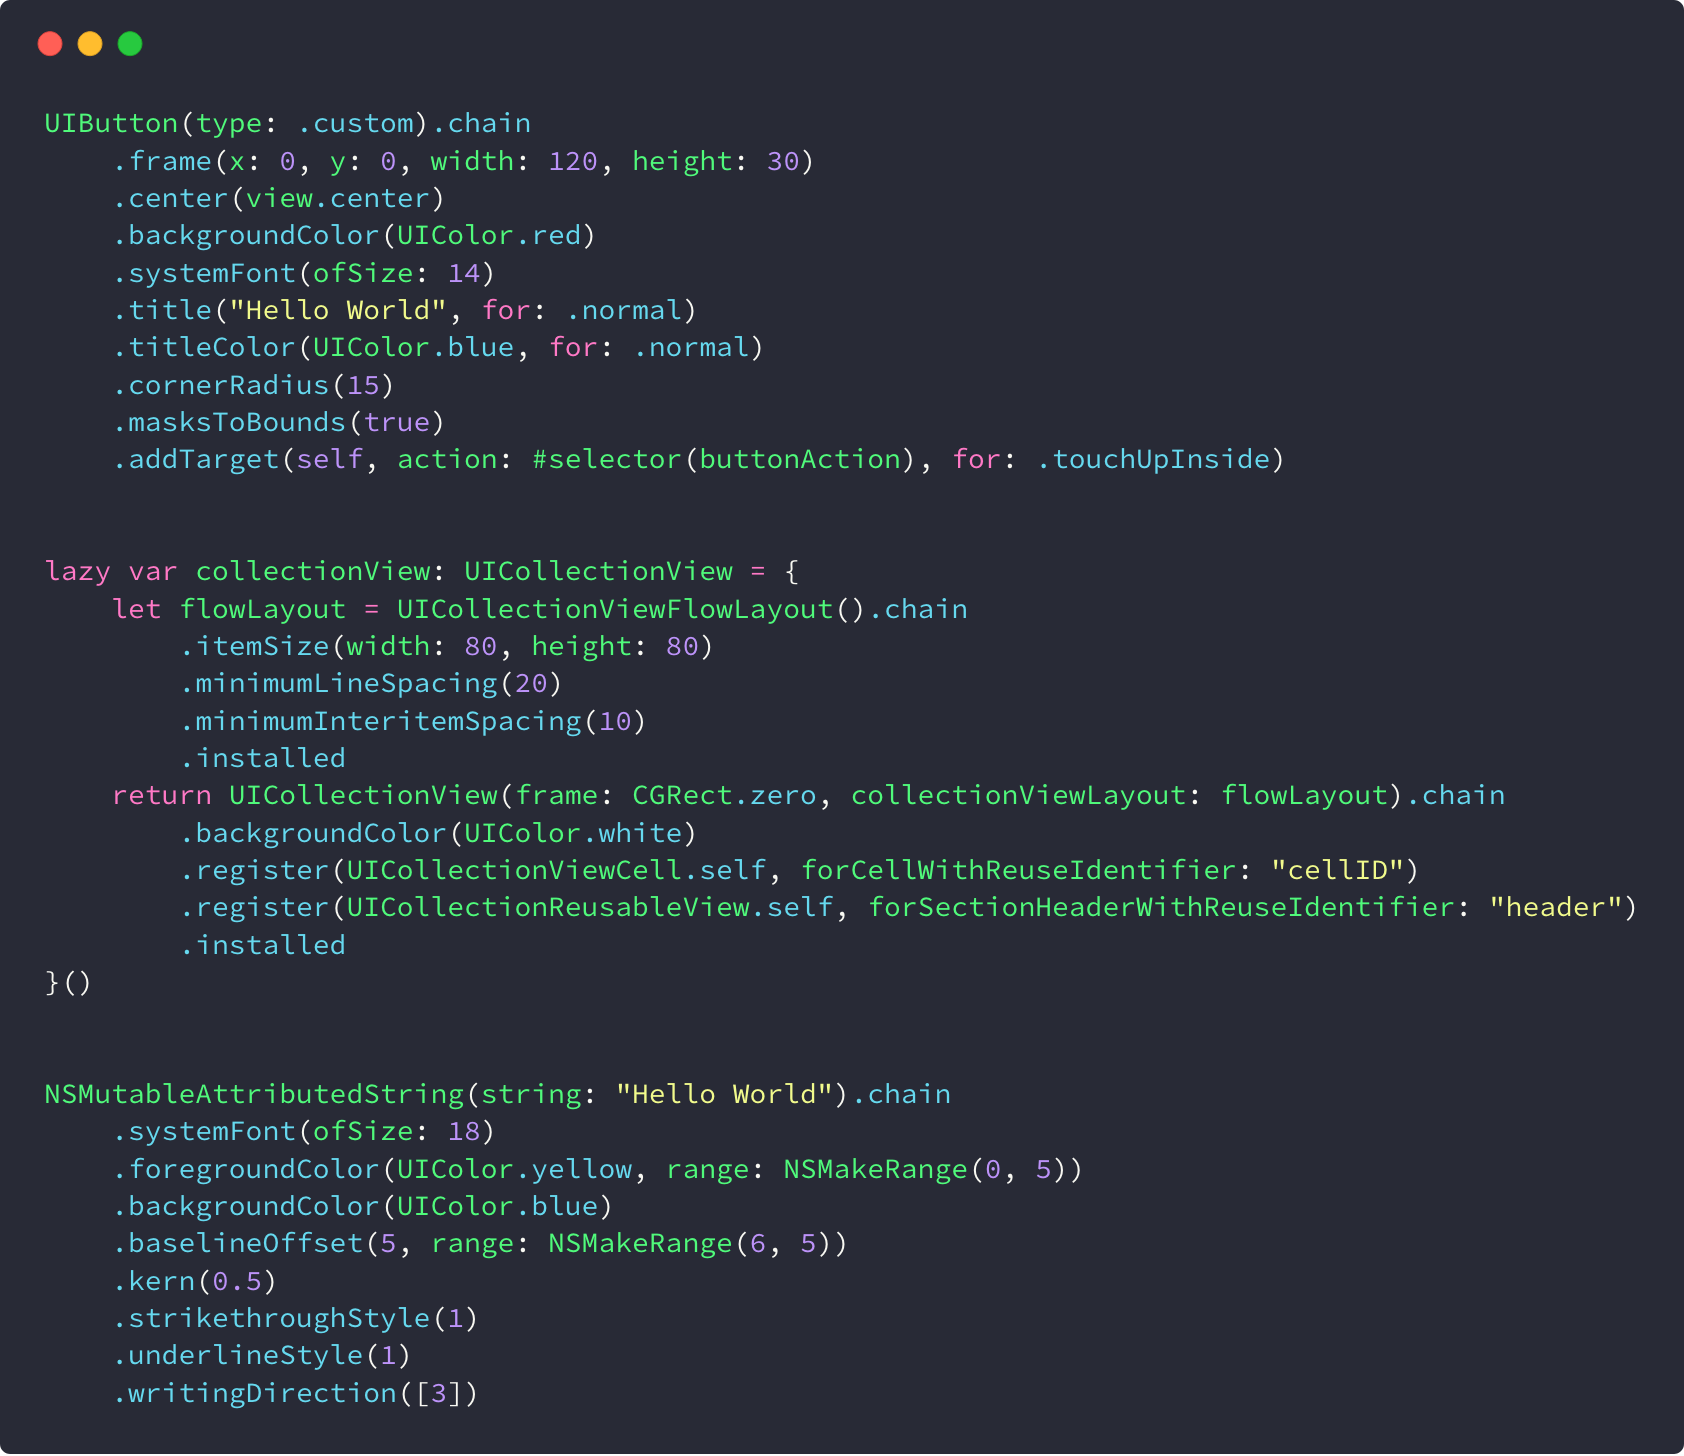
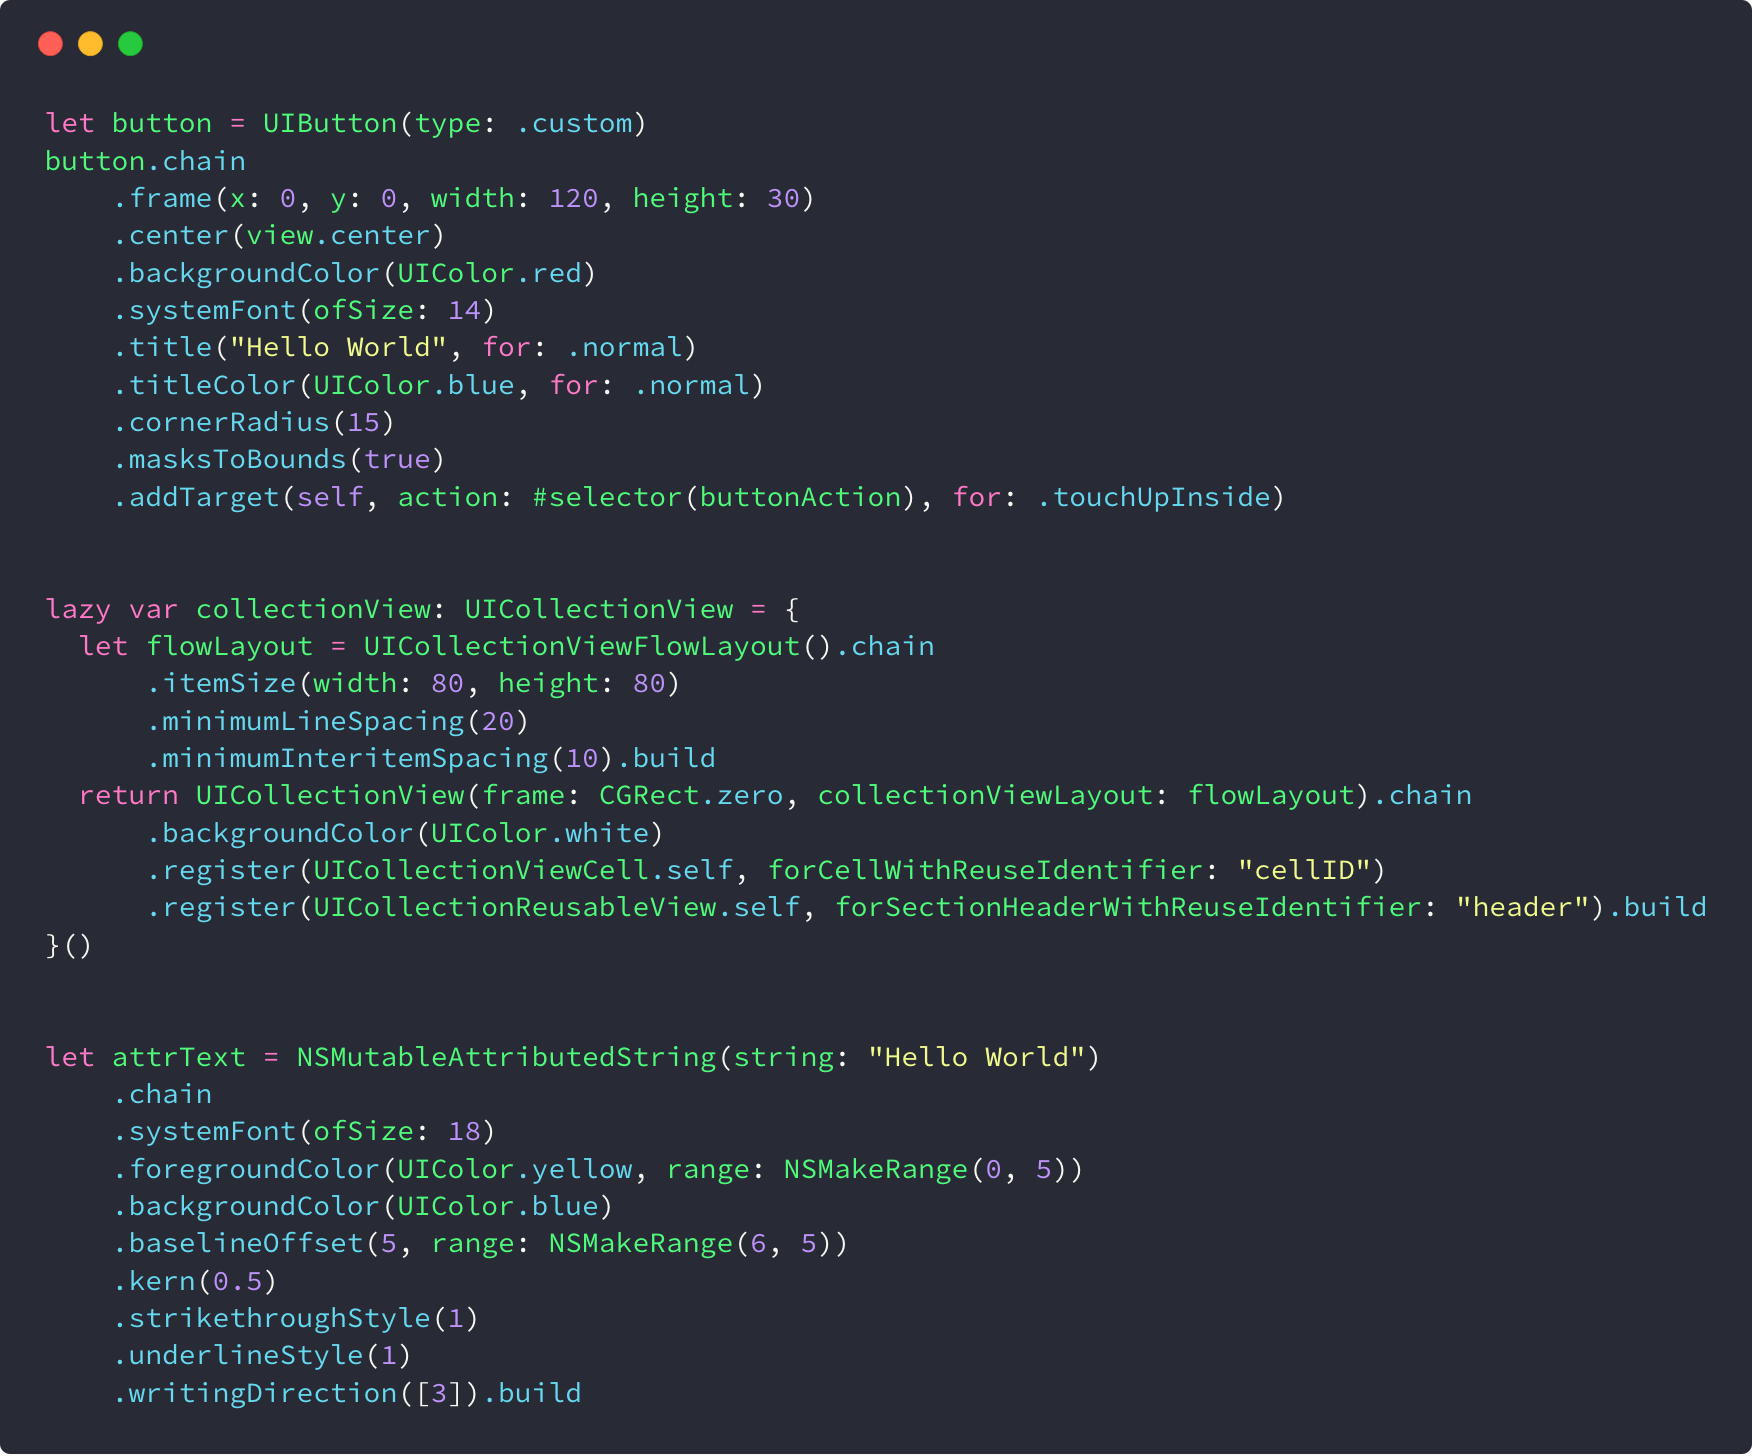
update readme image

diff --git a/Example/CocoaChainKit/ViewController.swift b/Example/CocoaChainKit/ViewController.swift
@@ -12,7 +12,7 @@ import CocoaChainKit
 class ViewController: UIViewController {
     
     private lazy var button: UIButton = {
-        UIButton().chain
+        UIButton(type: .custom).chain
             .frame(x: 0, y: 0, width: 120, height: 30)
             .center(view.center)
             .backgroundColor(UIColor.red)
@@ -25,7 +25,7 @@ class ViewController: UIViewController {
     }()
     
     private lazy var tableView: UITableView = {
-        return UITableView(frame: view.bounds, style: .plain).chain
+        UITableView(frame: view.bounds, style: .plain).chain
             .rowHeight(44)
             .register(UITableViewCell.self, forCellReuseIdentifier: "cellID").build
     }()
